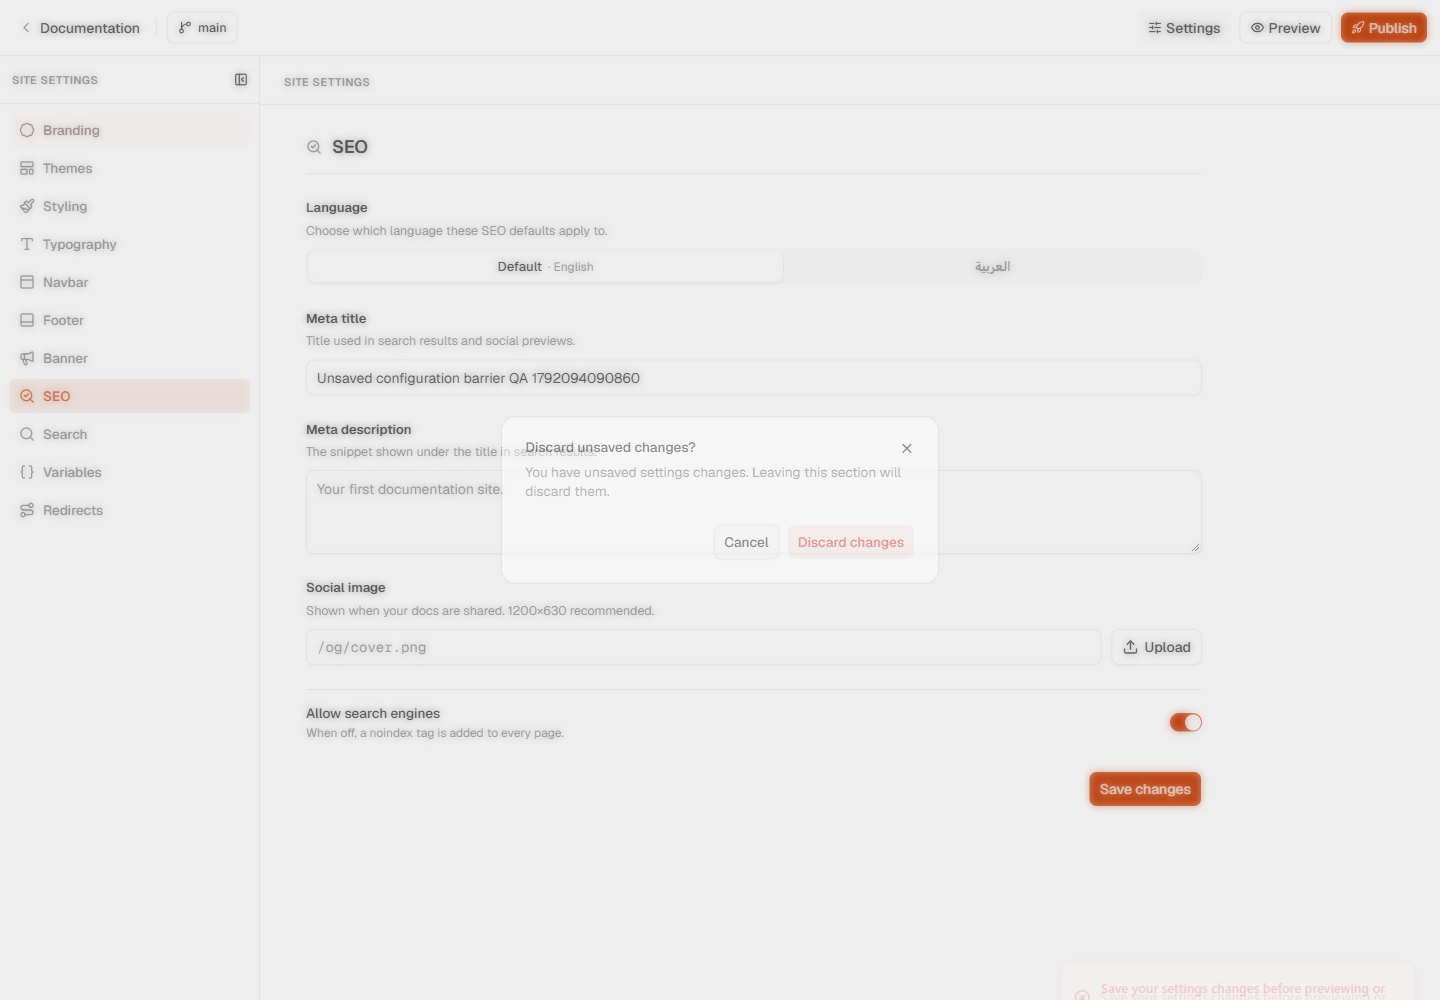
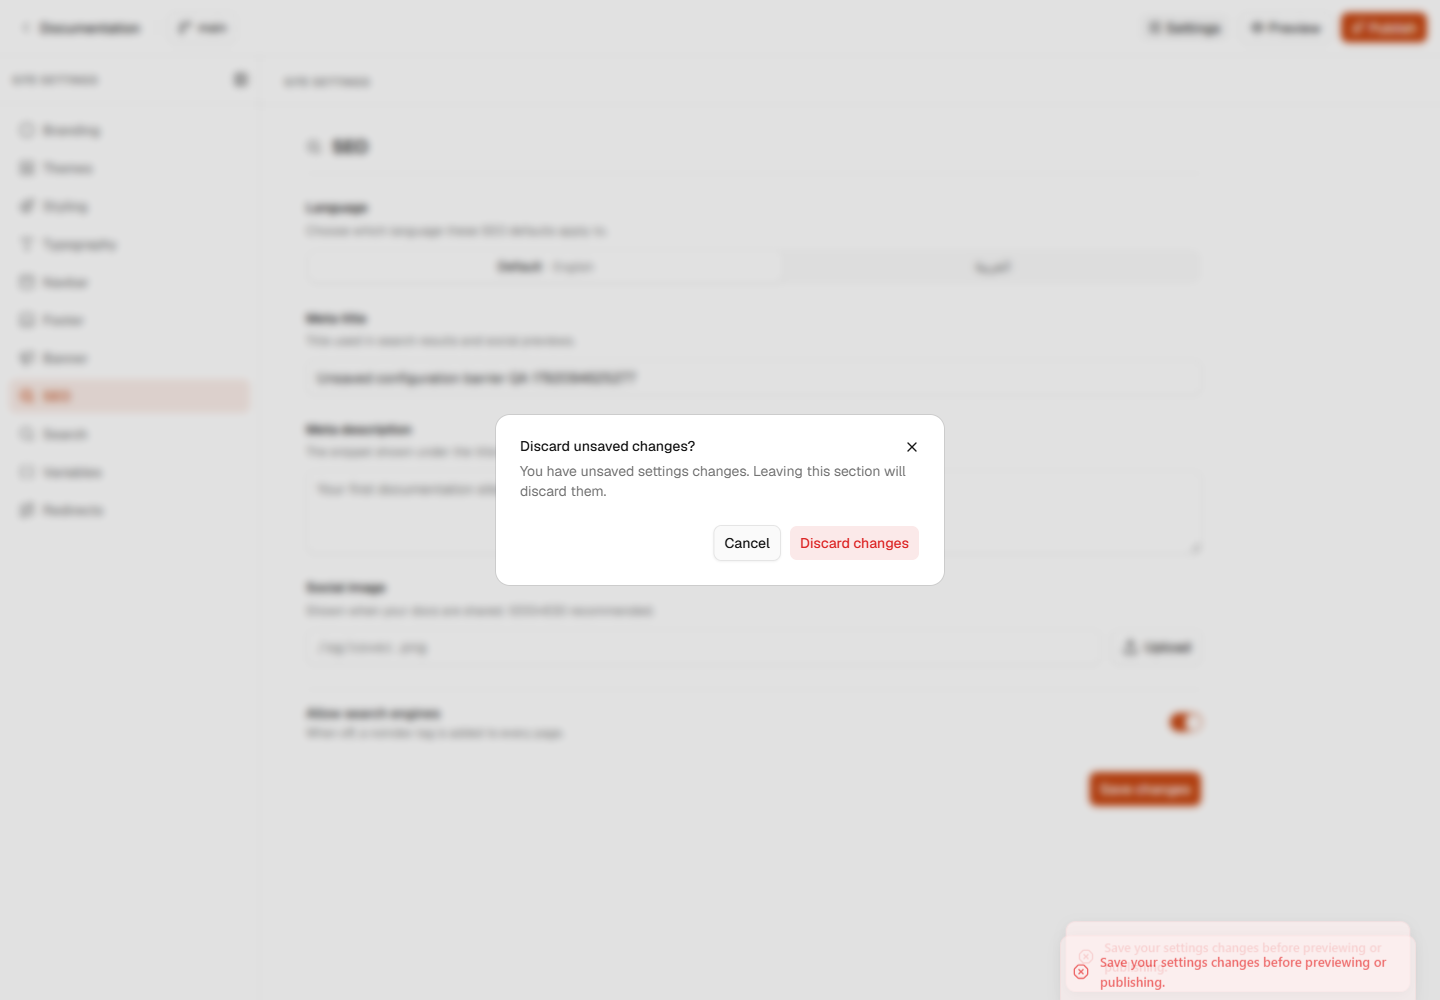
docs: record compiled browser and datastore acceptance evidence

diff --git a/.github/assets/product-readiness/README.md b/.github/assets/product-readiness/README.md
@@ -11,7 +11,8 @@ object storage. It does not establish deployed customer or external-provider acc
   the draft, block publication, and offer Retry.
 - Preserve unsaved configuration across refetches; confirm before leaving it.
   Require saved configuration before preview/publish, and cancel pending publish
-  preparation when its dialog closes.
+  preparation when its dialog closes. Pass subscribed values to shared controls
+  so optimized production builds can save a reversion to the original value.
 - Keep mobile page settings and publish review usable; restore keyboard focus
   when the focused Markdown navigation closes. Destructive confirms focus Cancel.
 - Recover from signup metadata, dashboard, usage, and invitation failures.
@@ -27,7 +28,7 @@ object storage. It does not establish deployed customer or external-provider acc
 ## Verification
 
 - `pnpm lint`, `pnpm typecheck`, `pnpm test`, and `pnpm check:dead-code` pass.
-  The full test run completes 24 Turbo tasks; app: 599 tests; API: 503 tests;
+  The full test run completes 24 Turbo tasks; app: 601 tests; API: 503 tests;
   i18n: 83 tests. Optional integration tests skipped in the ordinary suite were
   exercised separately where infrastructure was available.
 - Production app and admin builds pass. Public docs preload budget: 380.11 KiB
@@ -49,6 +50,10 @@ object storage. It does not establish deployed customer or external-provider acc
   to matching reader content; configuration discard/save/SEO clearing; English
   and Arabic mobile navigation/search; signup metadata retry; denied storage;
   and real missing-page HTTP 404.
+- Final compiled-browser checks also confirm configuration blocks stale preview
+  and publication, Cancel during delayed preflight creates no deployment, and an
+  A-to-B save followed by reversion to A persists to the API. Immediate publication
+  succeeds through worker READY with both browser storage getters denied.
 
 ## Visual evidence
 
@@ -56,6 +61,8 @@ object storage. It does not establish deployed customer or external-provider acc
 | --- | --- |
 | Failed save keeps draft and provides Retry | [Screenshot](editor-save-failure-recovery.png) |
 | Editing and publishing interaction | [Recording](editor-save-publish.webm) |
+| Publishing with browser storage denied | [Recording](editor-publish-storage-denied.webm), [success](publish-storage-denied-success-mobile.png) |
+| Configuration discard defaults to Cancel | [Screenshot](config-discard-cancel-focus.png) |
 | Mobile page settings | [Screenshot](page-settings-mobile.png) |
 | Mobile publish review | [Screenshot](publish-review-mobile.png) |
 | Account email layout | [Before](account-mobile-before.png), [after](account-mobile-after.png) |
